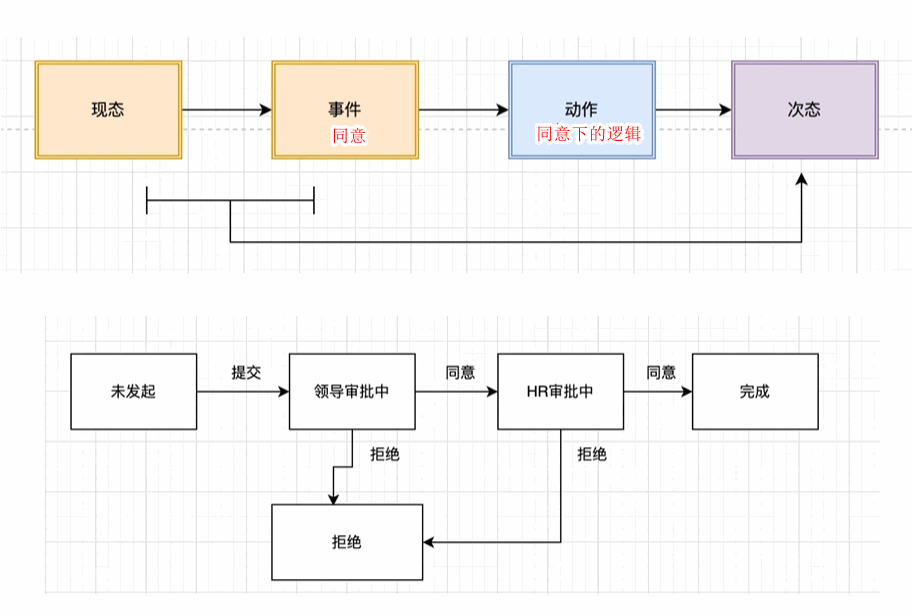
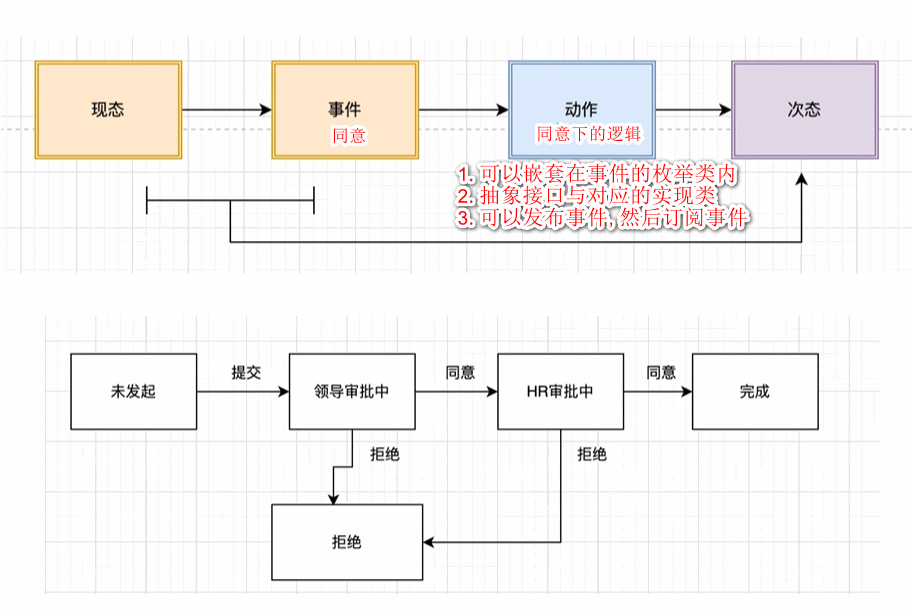
dp/state: refine state note

Changed region(s): [[0.4912, 0.2468, 0.8289, 0.401]]

diff --git a/dp/types/05.state.md b/dp/types/05.state.md
@@ -2,7 +2,7 @@
 
 ## target
 
-1. 将所有状态集中管理`[enum]`: 不能使其散落在代码流程中
+1. 将所有状态集中管理`[enum(内置逻辑)]`: 不能使其散落在代码流程中
 2. 开闭原则: 尽量做到不影响已有逻辑进行扩展
 3. core point:
 
@@ -64,16 +64,20 @@
 1. best practice
 
    ```java
-   // 1. context map
+   // 1. context map: 此处可以该对象状态
 
    // 2. abstract interface
    IOrderState
 
-   // 3. impl and change state
+   // 3. impl and change state: 此处可以该对象状态
    UnPayedOrderState
    PayedOrderState
    DeliveryOrderState
    ```
+
+2. 状态机:
+   - enum 可以处理简单的状态机流转: 比如获取下一状态 | 指定对应的逻辑
+   - 复杂时, 还是需要使用 `现态 - 事件 - 动作(逻辑) - 次态` 进行: 现态与事件(动作)作为 Map 的键, 确定下一状态活执行的逻辑
 
 ## 经典使用举例
 
